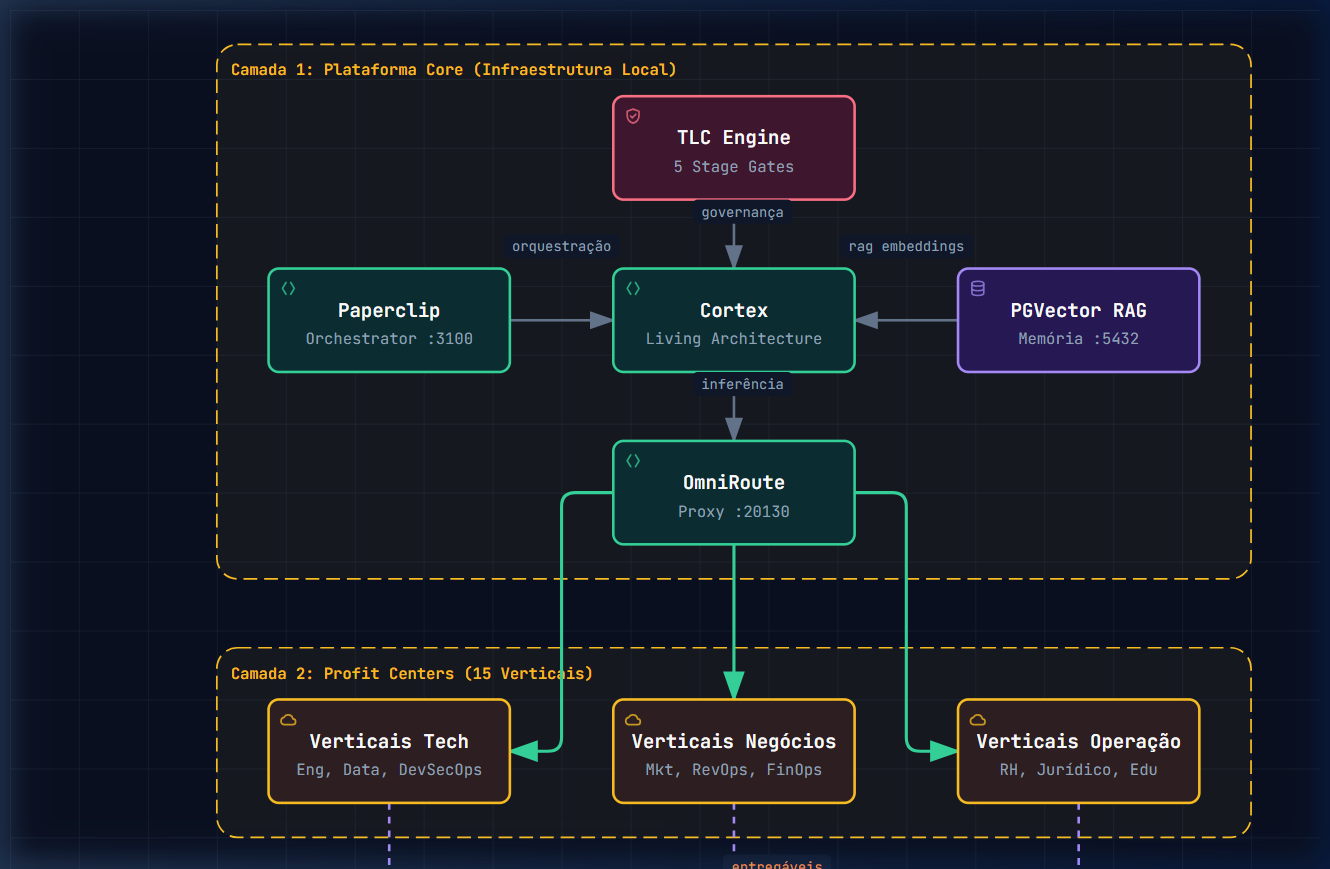
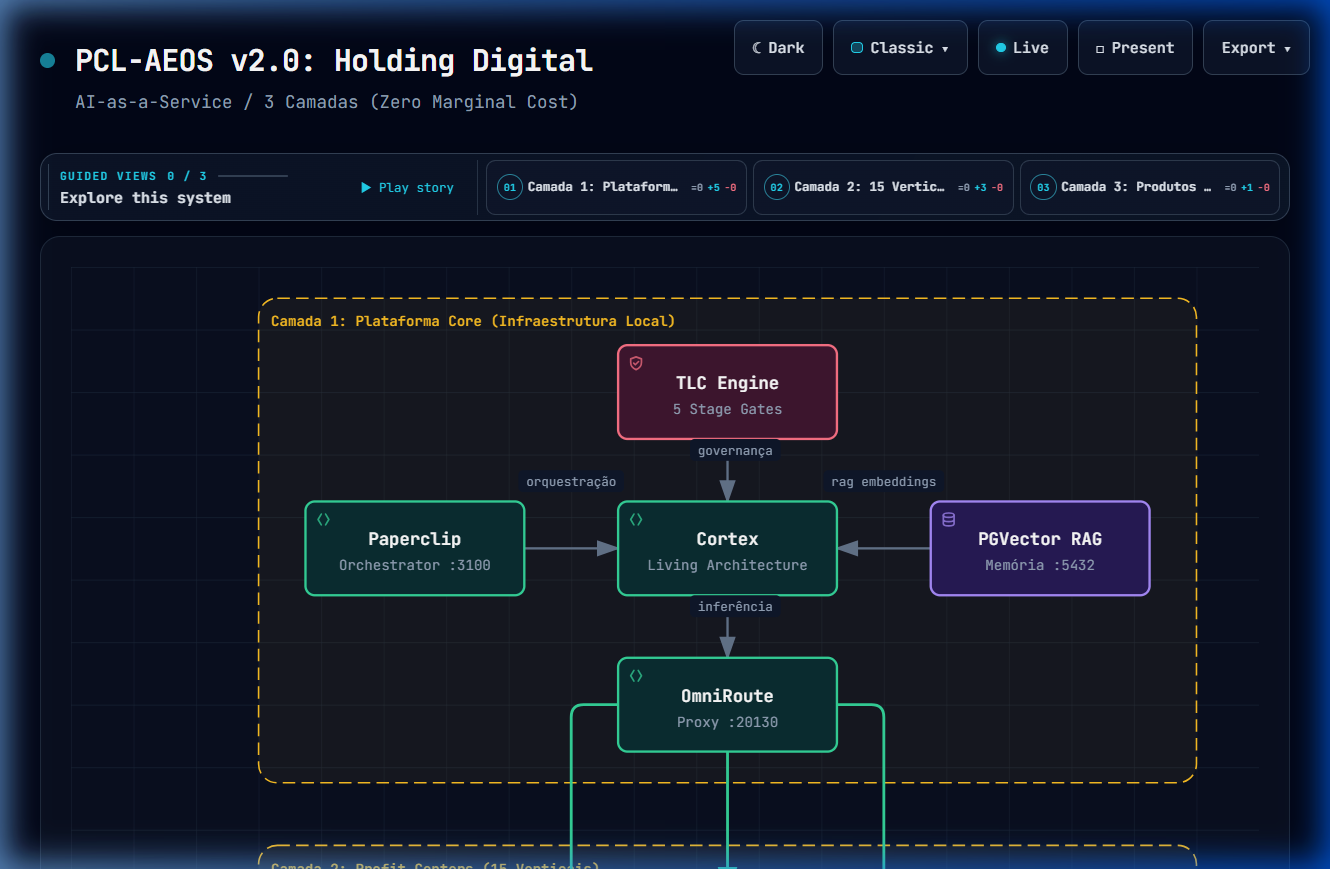
docs(operating-model): inclui detalhamento dos 15 Agentes, Sub-agentes e Skills + atualiza miniatura do DIAG-HOLD-01 com cabeçalho

diff --git a/governance/operating-model.md b/governance/operating-model.md
@@ -230,6 +230,35 @@ Nenhum agente possui autoridade arquitetural.
 
 ---
 
+## Mapeamento de Agentes, Sub-Agentes e Distribuição de Skills
+
+A execução operacional do PCL-AEOS é conduzida por uma Squad de **15 Agentes Especialistas**, cujas responsabilidades e habilidades são distribuídas em 4 camadas funcionais (para consulta detalhada, veja o [Manual dos Agentes](file:///c:/PromptCore_Labs/projects/Living%20Architecture%20PCL%20AEOS/docs/agents-squads/README.md)):
+
+1. **Squad Core de Engenharia (Spec-Driven Loop)**:
+   - **Planner Agent**: Decomposição de especificações (`specify.md`) e planejamento de backlog (`tasks.md`).
+   - **Builder Agent**: Escrita cirúrgica de código, refatoração e geração de diffs.
+   - **Reviewer QA**: Testes adversários, execução de suítes de teste e validação de regressão.
+   - **Auditor Agent**: Compliance constitucional, verificação de segredos e selamento dos Stage Gates.
+
+2. **Squad de Estratégia & Arquitetura**:
+   - **Strategist_One**: OKRs corporativos, visão do produto e métricas North Star.
+   - **Lead TLC Engineer**: Manutenção da arquitetura viva, governança C4 e motor Cortex Archify.
+
+3. **Squad SecOps, FinOps & Infraestrutura**:
+   - **CISO Security Agent**: Segurança Zero Trust, sanitização de chaves e imunização Mesh Tailscale.
+   - **BizOps Controller**: Monitoramento da cadência de sprints e gargalos de fluxo no Paperclip.
+   - **Financial Advisor**: Auditoria de FinOps e controle de custos de inferência (EBITDA Shield no OmniRoute).
+
+4. **Squad Data, Growth, LegalOps & People**:
+   - **RevOps Architect**: Funil de aquisição GTM, conversão de Micro-SaaS e retenção B2B.
+   - **Data Insight Agent**: RAG relacional, indexação de vetores (PGVector) e pipelines de ML.
+   - **Neuromarketing Strategist**: Branding, copywriting de auto-conversão e identidade visual.
+   - **Compliance Steward**: Jurídico, normas de privacidade (LGPD/GDPR) e governança contratual.
+   - **Skills Manager**: Gestão da matriz de competências dos agentes, skills e onboarding.
+
+
+---
+
 # Responsabilidades
 
 ## Humanos
